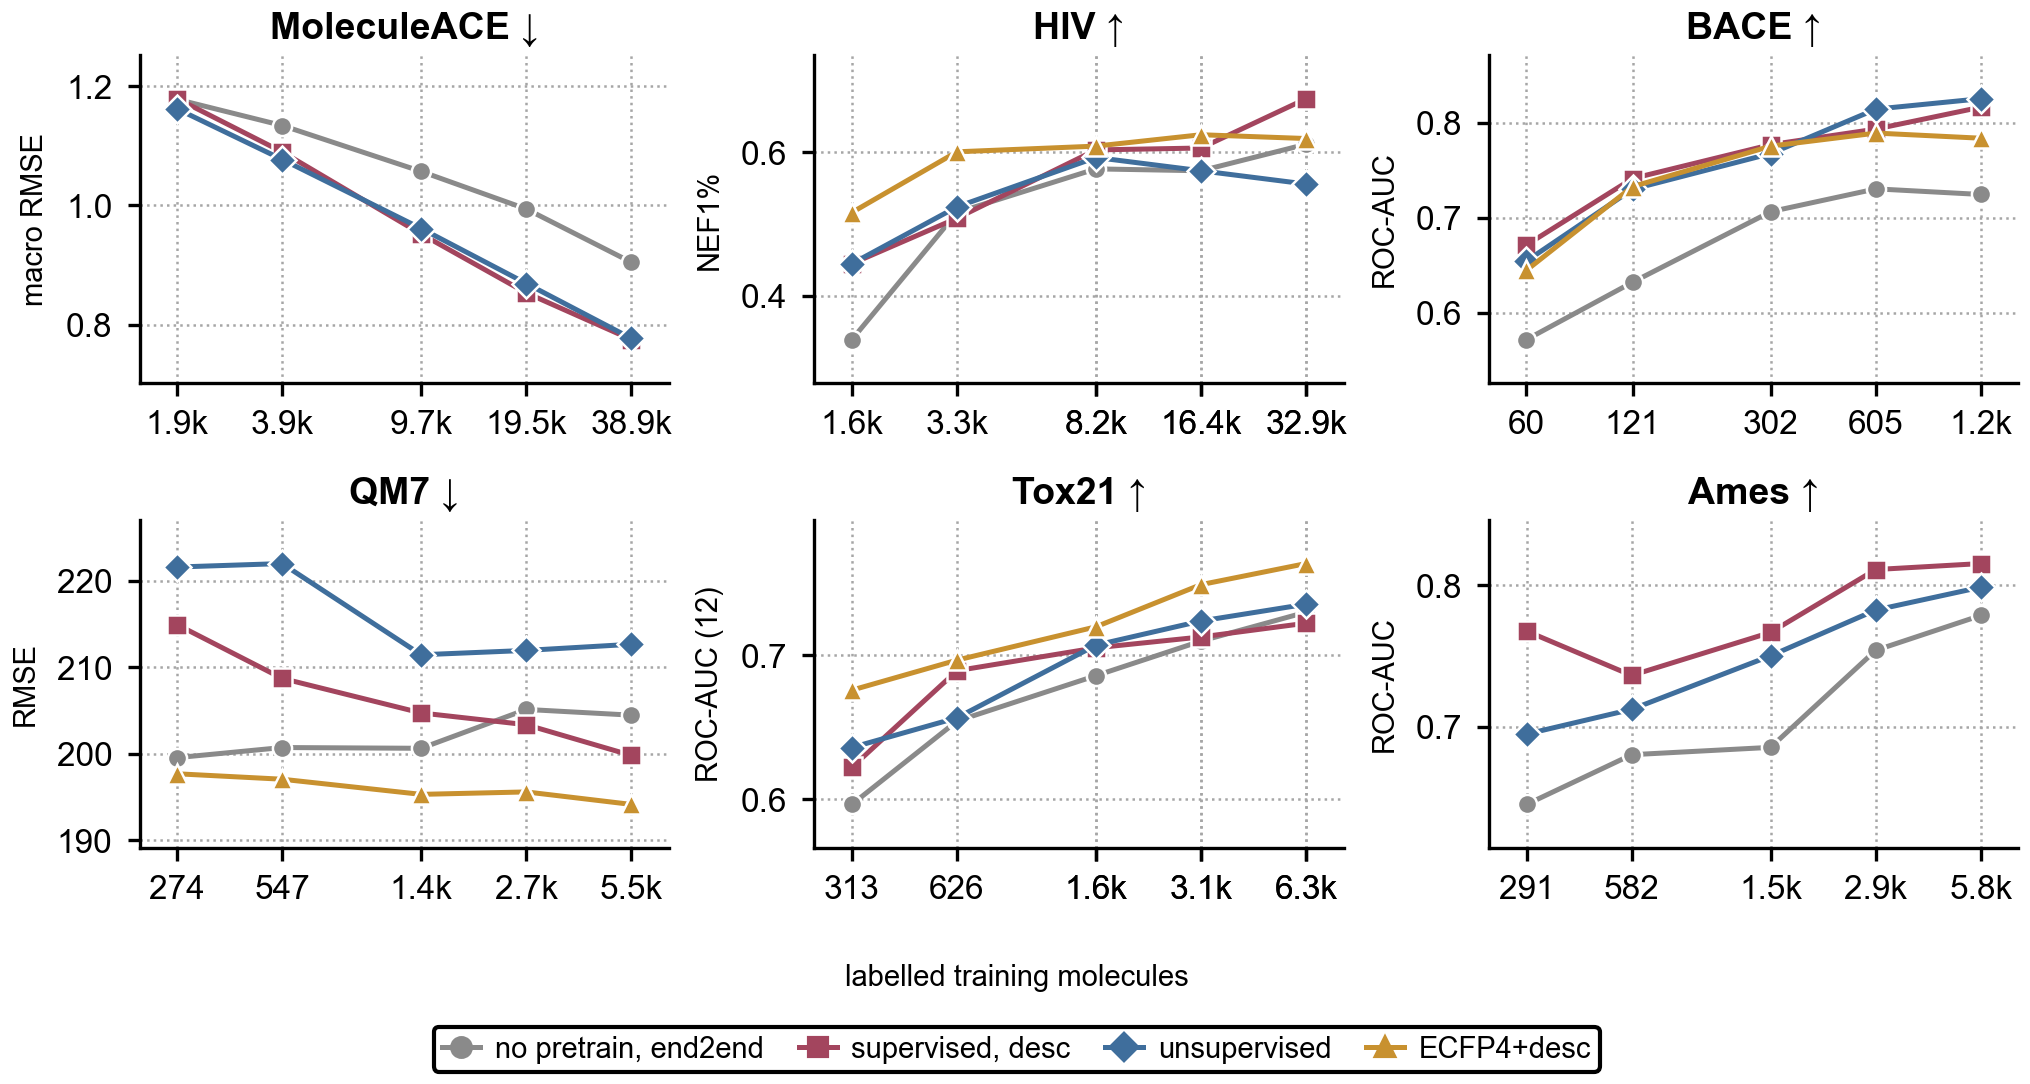
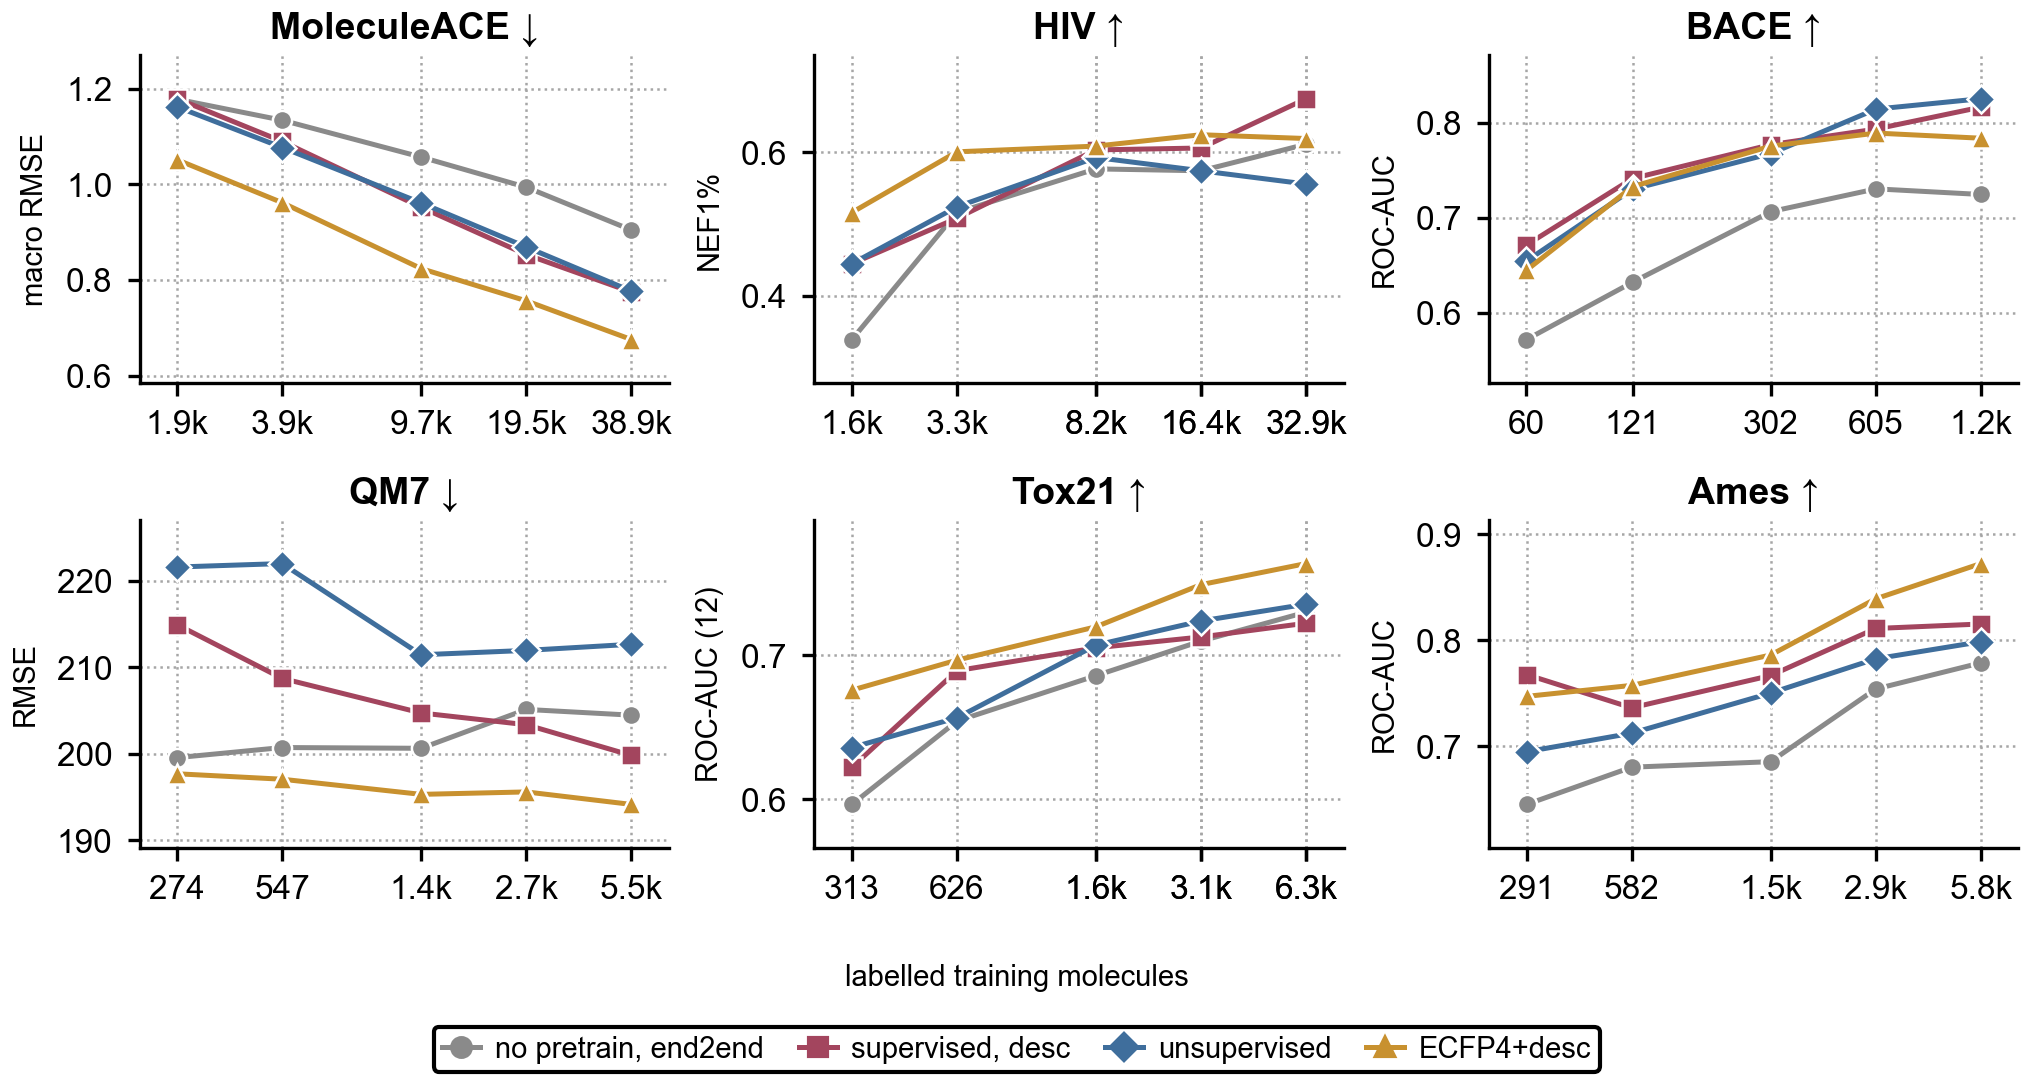
SI_fig_e: the XGBoost anchor is unbeaten on four of six panels
The anchor sweep now covers MoleculeACE and Ames as well (Leif: "XGBoost is missing on moleculeACE
and Ames"), run through the SAME runner at the SAME five fractions as the model arms, so all four
lines on every panel are one protocol rather than two.

Counting wins per label budget:
  MoleculeACE  5/5 -- and by a wide margin, 1.05 -> 0.67 macro RMSE against the best model line's
               1.16 -> 0.78
  QM7          5/5
  Tox21        every shared budget
  HIV          every shared budget
  Ames         4/5; supervised edges it at 582 labels, it retakes the lead after
  BACE         0/5 -- the one panel it never leads, and also the smallest (1.2k labels at full)

So on five of six panels the fingerprint leads at nearly every budget, and on four it is never
beaten at all. The usual case for pretraining is that it pays when labels are scarce; here the
scarce-label end is where the fingerprint is strongest. That agrees with fig_A, where ECFP4+desc
holds rank 1 over the whole 64-dataset field ahead of both 100M CLIMB arms.

Ames needed the off-box Polaris scoring pass (results.csv is empty for every dir under
chemeleon_suite/polaris/ BY DESIGN -- Polaris withholds test labels, so scoring is always post-hoc
through bench.evaluate()). score_le_ames.py picked the new arm up from its dir name with no change.

diff --git a/figures/SI_fig_e.py b/figures/SI_fig_e.py
@@ -39,16 +39,18 @@ panels where it pays are the two where the label budget is smallest relative to 
 the task — BACE tops out at 1.2k labels, and HIV is 3.5% active.
 
 THE XGBoost ANCHOR (added 2026-08-29, Leif: "just to see that XGBoost actually beats the models at
-any dataset size"). It does, on half the plate:
-  QM7 and Tox21   ECFP4+desc is the best line at EVERY budget tested and is never overtaken.
-  BACE            ahead to ~300 labels; both CLMs pass it by 605 (0.79 vs 0.81-0.82 at full data).
-  HIV             ahead to ~8k; supervised passes it at 32.9k (0.62 vs 0.67).
-So the fingerprint is not merely competitive, it is unbeaten on two of four panels at every label
-budget we measured -- and where it loses, it loses only once labels are plentiful, which is the
-opposite of the usual case made for pretraining.
-
-ITS LINE IS SHORT ON TWO PANELS. The anchor sweep covers the four MolNet tasks, so MoleculeACE and
-Ames carry the three model arms only. A visibly short line, not a silently absent one.
+any dataset size"). It does, on FOUR OF THE SIX PANELS, at every budget:
+  MoleculeACE  best at all 5 budgets, and by a wide margin (1.05 -> 0.67 macro RMSE against the
+               best model line's 1.16 -> 0.78). Never overtaken.
+  QM7          best at all 5. Never overtaken.
+  Tox21        best at every budget it shares with the models. Never overtaken.
+  HIV          best at every shared budget. Never overtaken.
+  Ames         best at 4 of 5; supervised edges it at 582 labels and it retakes the lead after.
+  BACE         the ONE panel it never leads -- both CLMs are ahead from 60 labels upward.
+So on five of six panels the fingerprint is ahead at nearly every label budget we measured, and on
+four it is never beaten at all. BACE is the single exception, and BACE is also the smallest panel
+here (1.2k labels at full data). The usual case for pretraining is that it pays when labels are
+scarce; on this plate the scarce-label end is where the fingerprint is strongest.
 
 X POSITIONS DIFFER BY <0.1% ON Tox21 AND HIV, and the cause is worth recording rather than hiding:
 the three model arms were swept in an environment whose RDKit parsed 7,830 Tox21 and 41,126 HIV
